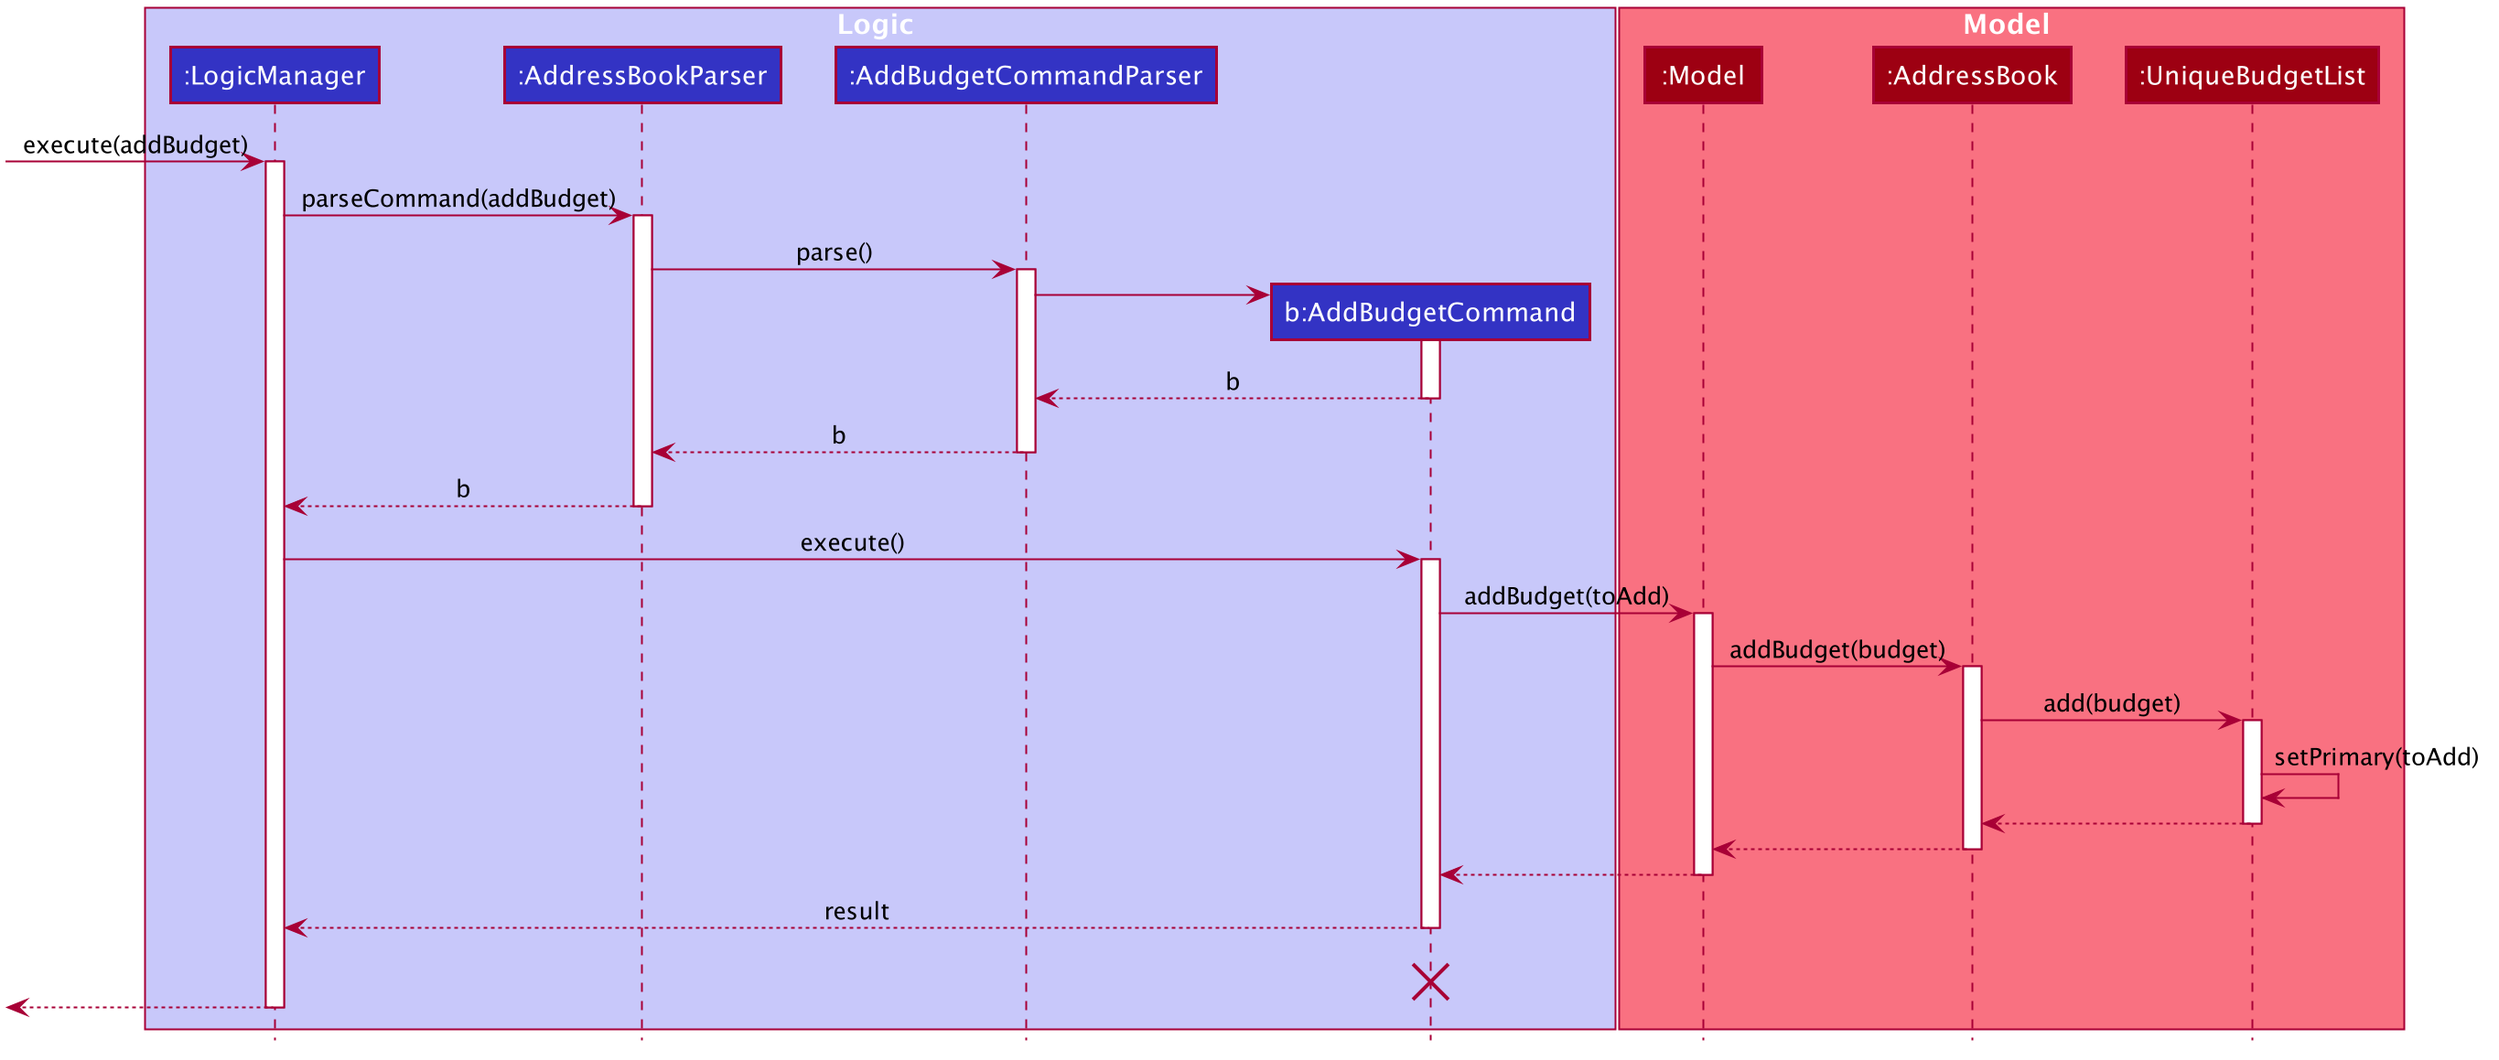
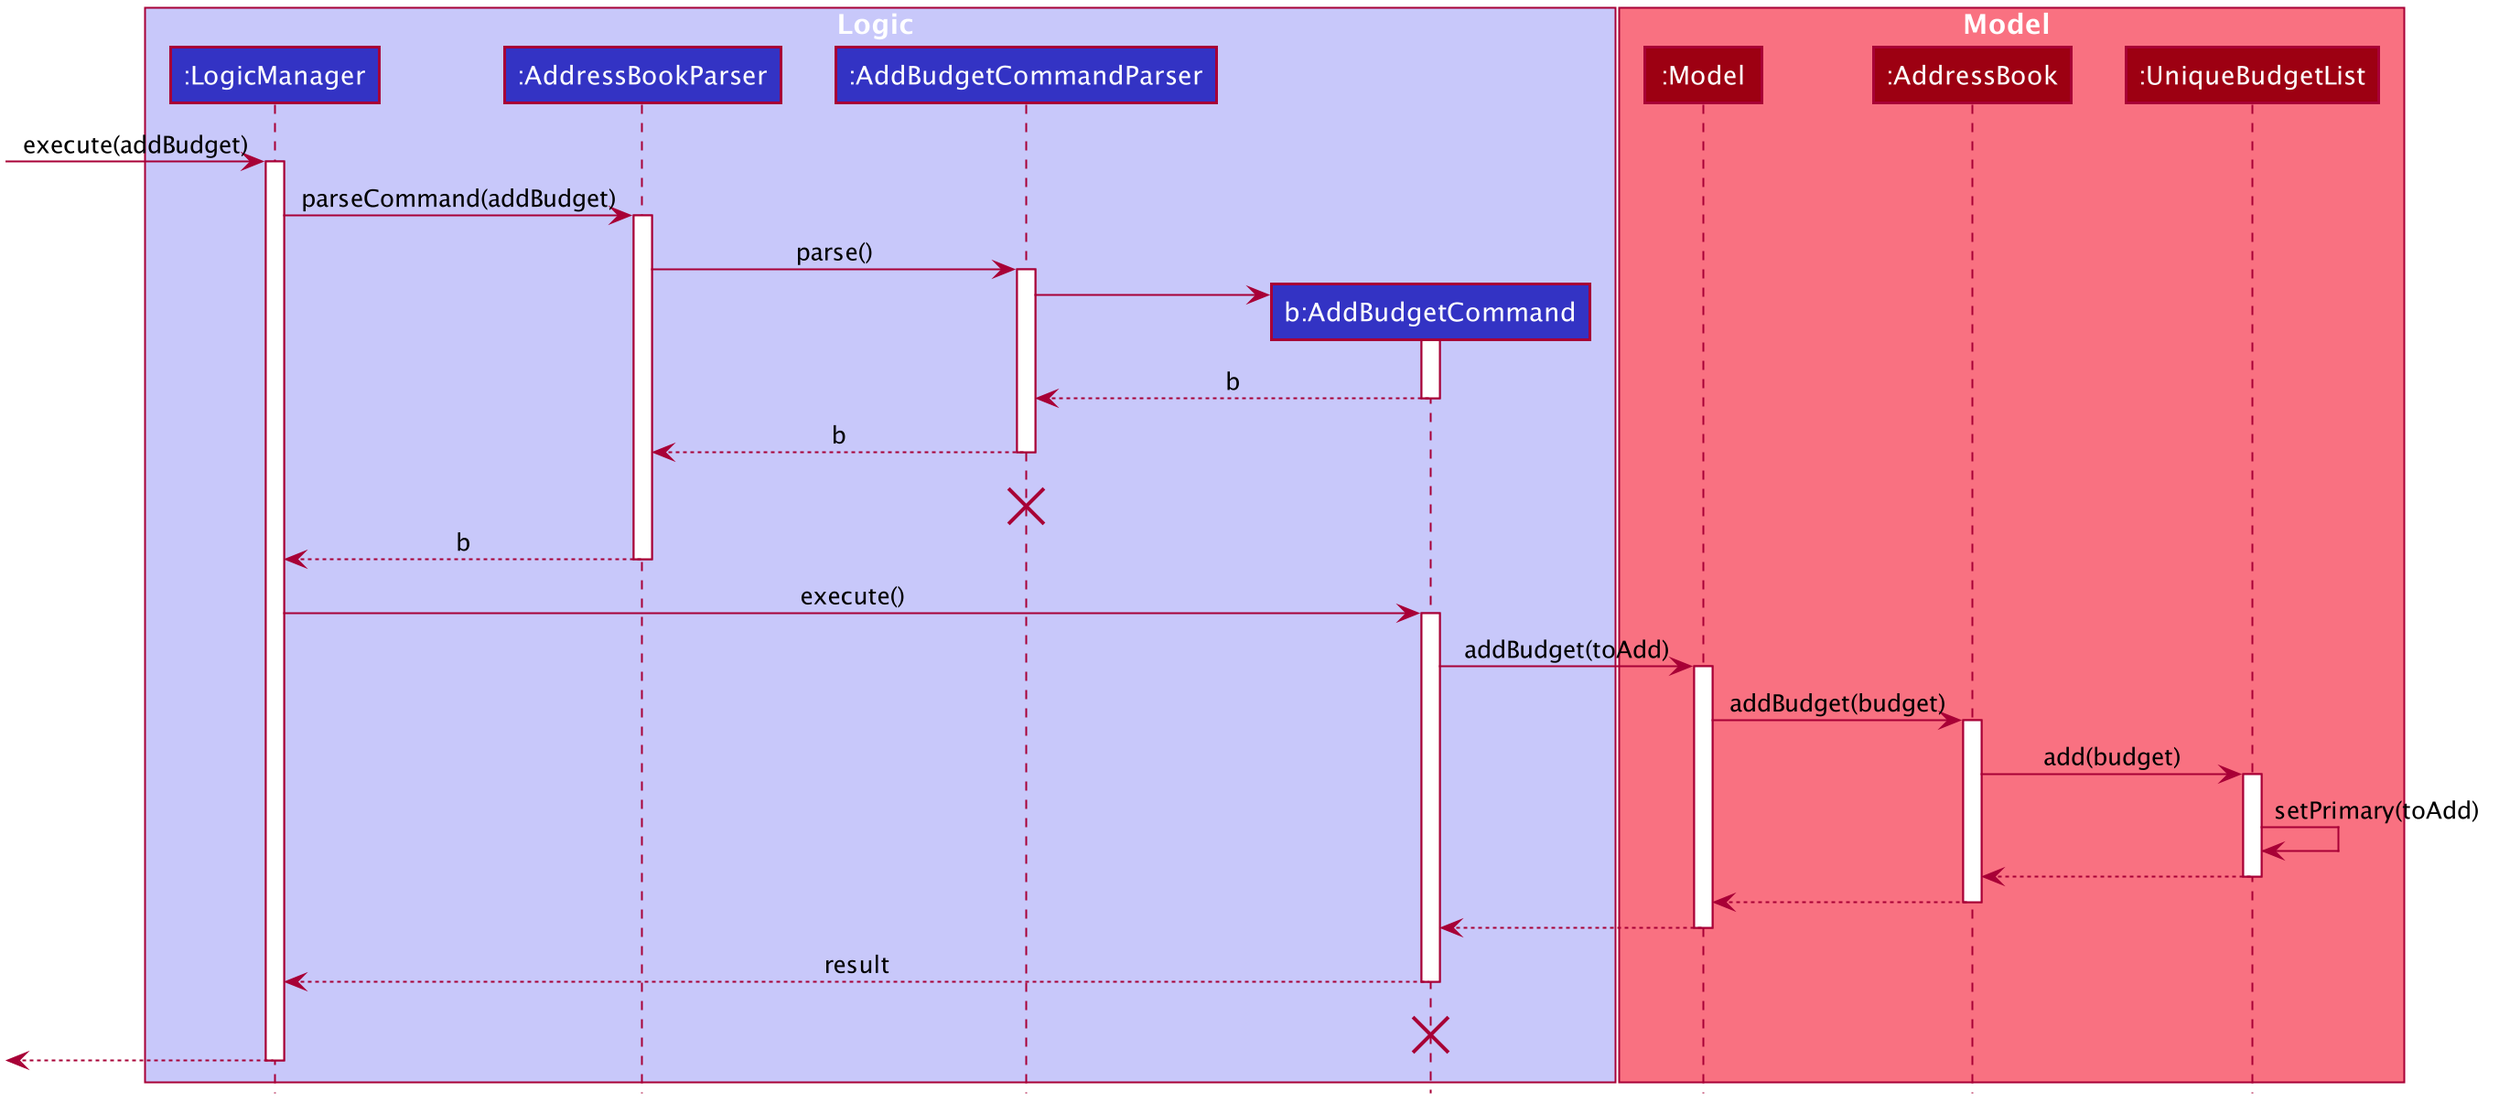
Rebuild pages at 3301624e7b264031afe706e0832759759f7f52c2

diff --git a/DeveloperGuide.html b/DeveloperGuide.html
@@ -31,9 +31,8 @@
 <li><a href="#undo-redo-feature">4.1. Undo/Redo feature</a></li>
 <li><a href="#budget-feature">4.2. Budget feature</a></li>
 <li><a href="#statistics-feature">4.3. Statistics Feature</a></li>
-<li><a href="#proposed-data-encryption">4.4. [Proposed] Data Encryption</a></li>
-<li><a href="#logging">4.5. Logging</a></li>
-<li><a href="#Implementation-Configuration">4.6. Configuration</a></li>
+<li><a href="#logging">4.4. Logging</a></li>
+<li><a href="#Implementation-Configuration">4.5. Configuration</a></li>
 </ul>
 </li>
 <li><a href="#documentation">5. Documentation</a></li>
@@ -538,15 +537,15 @@ will be tracked under this budget. If the user wants to track an expense under a
 switches to the target budget first, before adding the expense.</p>
 </div>
 <div class="paragraph">
-<p>Each budget has 8 fields:
-- description: <code>Description</code>, budget name
-- amount: <code>Price</code>, amount of budget limit
-- startDate: <code>Timestamp</code>, the start date of the budget (for the current period)
-- endDate: <code>Timestamp</code>, the end date of the budget (for the current period)
-- period: <code>Period</code>, the recurring period of the budget
-- expenses: <code>ObservableList&lt;Expense&gt;</code>, the list of all expenses under this budget
-- isPrimary: <code>boolean</code>, a flag indicating the primary status of this budget
-- proportionUsed: <code>Percentage</code>, the proportion of the total amount that has been used up</p>
+<p>Each <code>Budget</code> has 8 fields:
+* description: <code>Description</code> - budget name
+* amount: <code>Price</code> - amount of budget limit
+* startDate: <code>Timestamp</code> - the start date of the budget (for the current period)
+* endDate: <code>Timestamp</code>- the end date of the budget (for the current period)
+* period: <code>Period</code> - the recurring period of the budget
+* expenses: <code>ObservableList&lt;Expense&gt;</code> - the list of all expenses under this budget
+* isPrimary: <code>boolean</code> - a flag indicating the primary status of this budget
+* proportionUsed: <code>Percentage</code> - the proportion of the total amount that has been used up</p>
 </div>
 <div class="imageblock">
 <div class="content">
@@ -554,7 +553,7 @@ switches to the target budget first, before adding the expense.</p>
 </div>
 </div>
 <div class="paragraph">
-<p>Each budget, once added, will recur infinitely. This is achieved by the refresh() method, which checks whether
+<p>Each budget, once added, will recur infinitely. This is achieved by the Budget#refresh() method, which checks whether
 the budget has expired, and refreshes it to a new period if necessary, upon launching MooLah.</p>
 </div>
 <div class="paragraph">
@@ -564,32 +563,35 @@ the budget refreshes, the window "slides" to the next period, starting with an e
 populated with newly added expenses over time.</p>
 </div>
 <div class="paragraph">
-<p>A budget keeps a list of all expenses ever been tracked by this budget, including historical ones. Additionally,
-it has a method <code>getCurrentPeriodExpenses()</code> that generates a filtered list of expenses within the current budgeting
+<p>A budget keeps a list of all expenses ever been tracked by this budget, including historical ones. Additionally,</p>
+</div>
+<div class="paragraph">
+<p>it has a method Budget#getCurrentPeriodExpenses() that generates a filtered list of expenses within the current budgeting
 period, which interacts with GUI to be shown in the current screen.</p>
 </div>
 <div class="paragraph">
 <p>The fundamental classes of the budget feature are:
-- <code>Budget</code> : main functional backend class
-- <code>JsonAdaptedBudget</code> : for storage of a <code>Budget</code> object in Json format
-- <code>UniqueBudgetList</code> : a list of non-duplicate budgets in MooLah
-- <code>AddBudgetCommand</code> and <code>SwitchBudgetCommand</code> : budget-related commands
+* <code>Budget</code> : main functional backend class
+* <code>JsonAdaptedBudget</code> : for storage of a <code>Budget</code> object in Json format
+* <code>UniqueBudgetList</code> : a list of non-duplicate budgets in MooLah
+* <code>AddBudgetCommand</code> and <code>SwitchBudgetCommand</code> : budget-related commands
         <code>AddBudgetCommand</code> creates a new <code>Budget</code> and adds it to <code>UniqueBudgetList</code>
         <code>SwitchBudgetCommand</code> switches the primary budget to the specified budget
-- <code>AddBudgetCommandParser</code> and <code>SwitchBudgetCommandParser</code> : for parsing CLI input into commands</p>
-</div>
-<div class="imageblock">
-<div class="content">
-<img src="images/AddBudgetCommandClassDiagram.png" alt="AddBudgetCommandClassDiagram">
-</div>
-</div>
-<div class="imageblock">
-<div class="content">
-<img src="images/SwitchBudgetCommandClassDiagram.png" alt="SwitchBudgetCommandClassDiagram">
-</div>
+* <code>AddBudgetCommandParser</code> and <code>SwitchBudgetCommandParser</code> : for parsing CLI input into commands</p>
 </div>
 <div class="paragraph">
-<p>Additionally, util classes like <code>Percentage</code> which wraps a percentage for easier calculation and validation of proportionUsed.</p>
+<p>Here are the class diagrams of the two key commands related to Budget:</p>
+</div>
+<div class="paragraph">
+<p>AddBudgetCommand: Adds a new Budget to MooLah
+image::AddBudgetCommandClassDiagram.png[]</p>
+</div>
+<div class="paragraph">
+<p>SwitchBudgetCommand: Switches the primary Budget to another
+image::SwitchBudgetCommandClassDiagram.png[]</p>
+</div>
+<div class="paragraph">
+<p>Additionally, util class <code>Percentage</code> wraps a percentage for easier calculation and validation of proportionUsed.</p>
 </div>
 <div class="imageblock">
 <div class="content">
@@ -611,13 +613,14 @@ period, which interacts with GUI to be shown in the current screen.</p>
 <i class="fa icon-note" title="Note"></i>
 </td>
 <td class="content">
-The lifeline for <code>DeleteCommandParser</code> should end at the destroy marker (X) but due to a limitation of PlantUML, the lifeline reaches the end of diagram.
+The lifeline for <code>AddBudgetCommandParser</code> and <code>AddBudgetCommand</code> should end at the destroy marker (X) but due to
+a limitation of PlantUML, the lifeline reaches the end of diagram.
 </td>
 </tr>
 </table>
 </div>
 <div class="paragraph">
-<p>The following activity diagram summarizes what happens when the app launches and when a new expense is added:</p>
+<p>The following activity diagram summarizes what happens to budgets when the app launches and when a new expense is added:</p>
 </div>
 <div class="imageblock">
 <div class="content">
@@ -628,11 +631,11 @@ The lifeline for <code>DeleteCommandParser</code> should end at the destroy mark
 <div class="sect3">
 <h4 id="design-considerations-2"><a class="link" href="#design-considerations-2">4.2.2. Design Considerations</a></h4>
 <div class="sect4">
-<h5 id="aspect-since-budget-already-keeps-a-list-of-expenses-should-expense-have-a-budget-field"><a class="link" href="#aspect-since-budget-already-keeps-a-list-of-expenses-should-expense-have-a-budget-field">Aspect: Since Budget already keeps a list of expenses, should Expense have a Budget field?</a></h5>
+<h5 id="aspect-since-budget-already-keeps-a-list-of-expenses-should-expense-have-a-budget-field"><a class="link" href="#aspect-since-budget-already-keeps-a-list-of-expenses-should-expense-have-a-budget-field">Aspect: Since Budget already keeps a list of Expenses, should Expense have a Budget field?</a></h5>
 <div class="ulist">
 <ul>
 <li>
-<p><strong>Alternative 1:</strong> Expense has a <code>Budget</code> field</p>
+<p><strong>Alternative 1:</strong> Expense has a Budget field</p>
 <div class="ulist">
 <ul>
 <li>
@@ -670,18 +673,18 @@ only the budget name instead of the full budget object.</p>
 </div>
 </div>
 <div class="sect4">
-<h5 id="aspect-must-every-expense-be-tracked-under-a-budget-can-one-expense-be-tracked-under-multiple-budgets"><a class="link" href="#aspect-must-every-expense-be-tracked-under-a-budget-can-one-expense-be-tracked-under-multiple-budgets">Aspect: Must every expense be tracked under a Budget? Can one expense be tracked under multiple Budgets?</a></h5>
+<h5 id="aspect-must-every-expense-be-tracked-under-a-budget-can-one-expense-be-tracked-under-multiple-budgets"><a class="link" href="#aspect-must-every-expense-be-tracked-under-a-budget-can-one-expense-be-tracked-under-multiple-budgets">Aspect: Must every Expense be tracked under a Budget? Can one Expense be tracked under multiple Budgets?</a></h5>
 <div class="ulist">
 <ul>
 <li>
-<p><strong>Alternative 1:</strong> Every expense must be tracked under one, and only one Budget.</p>
+<p><strong>Alternative 1:</strong> Every Expense must be tracked under one, and only one Budget.</p>
 <div class="ulist">
 <ul>
 <li>
-<p>Pros: Budgets would be a partition of all expenses, which makes generating statistics (pie charts, etc.) easier.</p>
+<p>Pros: Budgets would be a partition of all Expenses, which makes generating statistics (pie charts, etc.) easier.</p>
 </li>
 <li>
-<p>Cons: User would not be able to track expenses that fall under multiple Budgets.</p>
+<p>Cons: User would not be able to track Expenses that fall under multiple Budgets.</p>
 </li>
 </ul>
 </div>
@@ -701,7 +704,7 @@ only the budget name instead of the full budget object.</p>
 </li>
 <li>
 <p><strong>Solution (Current implementation):</strong>
-Adopts Alternative 1. Every expense must be tracked under one and only one Budget. If the expense is added before
+Adopt Alternative 1. Every Expense must be tracked under one and only one Budget. If the expense is added before
 adding any budgets, a default budget with a huge limit is created for tracking all expenses without a proper budget.
 This ensures that the main screen has a budget and shows a budget status bar at all times. Besides, it leads to neater
 statistics.</p>
@@ -851,24 +854,25 @@ Once again, this question will be better addressed holistically once all 3 featu
 Currently, statistics under <code>stats</code> mode can only be displayed in a pie chart, and users may have different preferences for formats.
 Various options such as checking across different budgets other than within the same budget can also be considered.</p>
 </div>
+<div class="paragraph">
+<p>&gt;&gt;&gt;&gt;&gt;&gt;&gt; b0c4666f38acaeadcb6dd43f2515a6f6dfae140f
+=== [Proposed] Data Encryption</p>
 </div>
-</div>
-</div>
-<div class="sect2">
-<h3 id="proposed-data-encryption"><a class="link" href="#proposed-data-encryption">4.4. [Proposed] Data Encryption</a></h3>
 <div class="paragraph">
 <p><em>{Explain here how the data encryption feature will be implemented}</em></p>
 </div>
 </div>
+</div>
+</div>
 <div class="sect2">
-<h3 id="logging"><a class="link" href="#logging">4.5. Logging</a></h3>
+<h3 id="logging"><a class="link" href="#logging">4.4. Logging</a></h3>
 <div class="paragraph">
 <p>We are using <code>java.util.logging</code> package for logging. The <code>LogsCenter</code> class is used to manage the logging levels and logging destinations.</p>
 </div>
 <div class="ulist">
 <ul>
 <li>
-<p>The logging level can be controlled using the <code>logLevel</code> setting in the configuration file (See <a href="#Implementation-Configuration">Section 4.6, &#8220;Configuration&#8221;</a>)</p>
+<p>The logging level can be controlled using the <code>logLevel</code> setting in the configuration file (See <a href="#Implementation-Configuration">Section 4.5, &#8220;Configuration&#8221;</a>)</p>
 </li>
 <li>
 <p>The <code>Logger</code> for a class can be obtained using <code>LogsCenter.getLogger(Class)</code> which will log messages according to the specified logging level</p>
@@ -899,7 +903,7 @@ Various options such as checking across different budgets other than within the 
 </div>
 </div>
 <div class="sect2">
-<h3 id="Implementation-Configuration"><a class="link" href="#Implementation-Configuration">4.6. Configuration</a></h3>
+<h3 id="Implementation-Configuration"><a class="link" href="#Implementation-Configuration">4.5. Configuration</a></h3>
 <div class="paragraph">
 <p>Certain properties of the application can be controlled (e.g user prefs file location, logging level) through the configuration file (default: <code>config.json</code>).</p>
 </div>
@@ -1952,4 +1956,4 @@ Expected: Similar to previous.</p>
 </div>
 </div>
 </div>
-</div></div><div id="footer"><div class="container"><div id="footer-text">Last updated 2019-10-24 03:02:30 UTC</div></div></div></body></html>
+</div></div><div id="footer"><div class="container"><div id="footer-text">Last updated 2019-10-24 03:08:35 UTC</div></div></div></body></html>

diff --git a/Testing.html b/Testing.html
@@ -90,4 +90,4 @@ e.g. <code>seedu.address.logic.LogicManagerTest</code></p>
 <div class="title">Figure 1. <code>Accessibility</code> permission is granted to <code>IntelliJ IDEA</code></div>
 </div>
 </div>
-</div></div><div id="footer"><div class="container"><div id="footer-text">Last updated 2019-10-24 03:02:30 UTC</div></div></div></body></html>
+</div></div><div id="footer"><div class="container"><div id="footer-text">Last updated 2019-10-24 03:08:35 UTC</div></div></div></body></html>

diff --git a/ContactUs.html b/ContactUs.html
@@ -12,4 +12,4 @@
 <p><strong>Email us</strong> : You can also reach us at <code>anqichen@u.nus.edu</code></p>
 </li>
 </ul>
-</div></div><div id="footer"><div class="container"><div id="footer-text">Last updated 2019-10-24 03:02:30 UTC</div></div></div></body></html>
+</div></div><div id="footer"><div class="container"><div id="footer-text">Last updated 2019-10-24 03:08:35 UTC</div></div></div></body></html>

diff --git a/LearningOutcomes.html b/LearningOutcomes.html
@@ -474,4 +474,4 @@ of storages, but different number of storages (e.g. save to both a text file and
 </div>
 </div>
 </div>
-</div></div><div id="footer"><div class="container"><div id="footer-text">Last updated 2019-10-24 03:02:30 UTC</div></div></div></body></html>
+</div></div><div id="footer"><div class="container"><div id="footer-text">Last updated 2019-10-24 03:08:35 UTC</div></div></div></body></html>

diff --git a/SettingUp.html b/SettingUp.html
@@ -180,4 +180,4 @@ Having both Travis and AppVeyor ensures your App works on both Unix-based platfo
 </div>
 </div>
 </div>
-</div></div><div id="footer"><div class="container"><div id="footer-text">Last updated 2019-10-24 03:02:30 UTC</div></div></div></body></html>
+</div></div><div id="footer"><div class="container"><div id="footer-text">Last updated 2019-10-24 03:08:35 UTC</div></div></div></body></html>

diff --git a/UsingCoveralls.html b/UsingCoveralls.html
@@ -111,4 +111,4 @@ If you have not set up Travis CI, see <a href="UsingTravis.html">UsingTravis.ado
 </ol>
 </div>
 </div>
-</div></div><div id="footer"><div class="container"><div id="footer-text">Last updated 2019-10-24 03:02:30 UTC</div></div></div></body></html>
+</div></div><div id="footer"><div class="container"><div id="footer-text">Last updated 2019-10-24 03:08:35 UTC</div></div></div></body></html>

diff --git a/UsingGradle.html b/UsingGradle.html
@@ -228,4 +228,4 @@ See <code>build.gradle</code> &#8594; <code>allprojects</code> &#8594; <code>dep
 </ul>
 </div>
 </div>
-</div></div><div id="footer"><div class="container"><div id="footer-text">Last updated 2019-10-24 03:02:30 UTC</div></div></div></body></html>
+</div></div><div id="footer"><div class="container"><div id="footer-text">Last updated 2019-10-24 03:08:35 UTC</div></div></div></body></html>

diff --git a/UsingNetlify.html b/UsingNetlify.html
@@ -138,4 +138,4 @@ The publish directory is the directory in which the built HTML documentation res
 </ol>
 </div>
 </div>
-</div></div><div id="footer"><div class="container"><div id="footer-text">Last updated 2019-10-24 03:02:30 UTC</div></div></div></body></html>
+</div></div><div id="footer"><div class="container"><div id="footer-text">Last updated 2019-10-24 03:08:35 UTC</div></div></div></body></html>

diff --git a/Documentation.html b/Documentation.html
@@ -226,4 +226,4 @@ The SE-EDU team does not provide support for modified template files.</p>
 </table>
 </div>
 </div>
-</div></div><div id="footer"><div class="container"><div id="footer-text">Last updated 2019-10-24 03:02:30 UTC</div></div></div></body></html>
+</div></div><div id="footer"><div class="container"><div id="footer-text">Last updated 2019-10-24 03:08:35 UTC</div></div></div></body></html>

diff --git a/team/johndoe.html b/team/johndoe.html
@@ -161,4 +161,4 @@
 <p><em>{Optionally, you may include other projects in your portfolio.}</em></p>
 </div>
 </div>
-</div></div><div id="footer"><div class="container"><div id="footer-text">Last updated 2019-10-24 03:02:30 UTC</div></div></div></body></html>
+</div></div><div id="footer"><div class="container"><div id="footer-text">Last updated 2019-10-24 03:08:35 UTC</div></div></div></body></html>

diff --git a/UsingTravis.html b/UsingTravis.html
@@ -292,4 +292,4 @@ Suggested change: Remove the codacy badge from <code>README</code>.</p>
 </div>
 </div>
 </div>
-</div></div><div id="footer"><div class="container"><div id="footer-text">Last updated 2019-10-24 03:02:30 UTC</div></div></div></body></html>
+</div></div><div id="footer"><div class="container"><div id="footer-text">Last updated 2019-10-24 03:08:35 UTC</div></div></div></body></html>

diff --git a/UsingPlantUml.html b/UsingPlantUml.html
@@ -337,4 +337,4 @@ Explicitly define all symbols to avoid any potential layout mishaps.
 </div>
 </div>
 </div>
-</div></div><div id="footer"><div class="container"><div id="footer-text">Last updated 2019-10-24 03:02:30 UTC</div></div></div></body></html>
+</div></div><div id="footer"><div class="container"><div id="footer-text">Last updated 2019-10-24 03:08:35 UTC</div></div></div></body></html>
